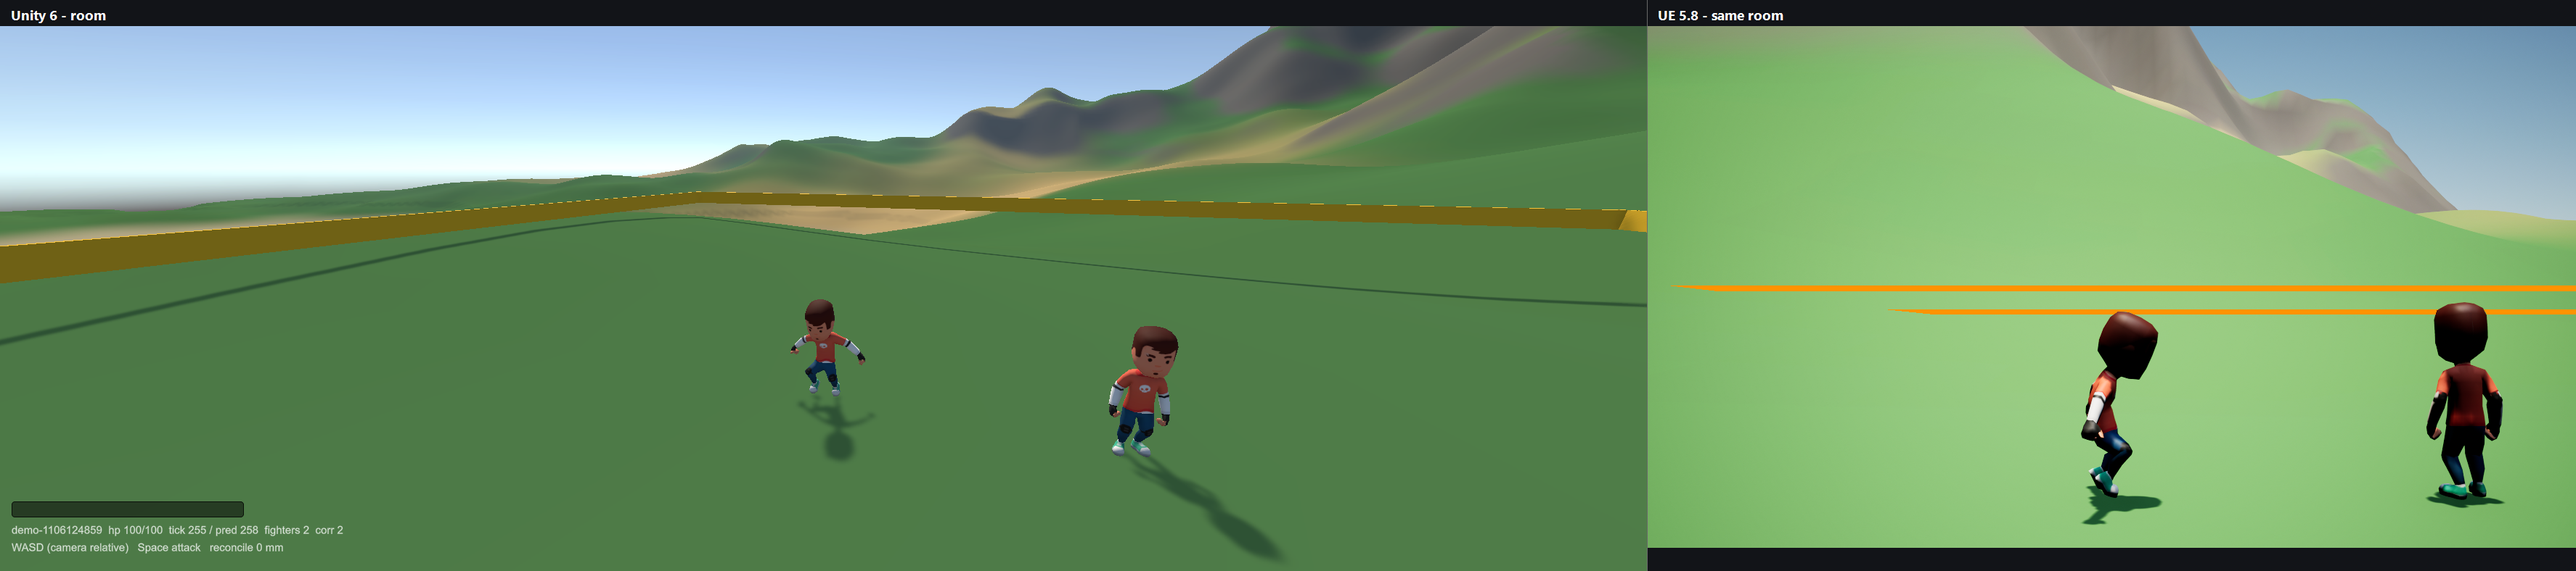
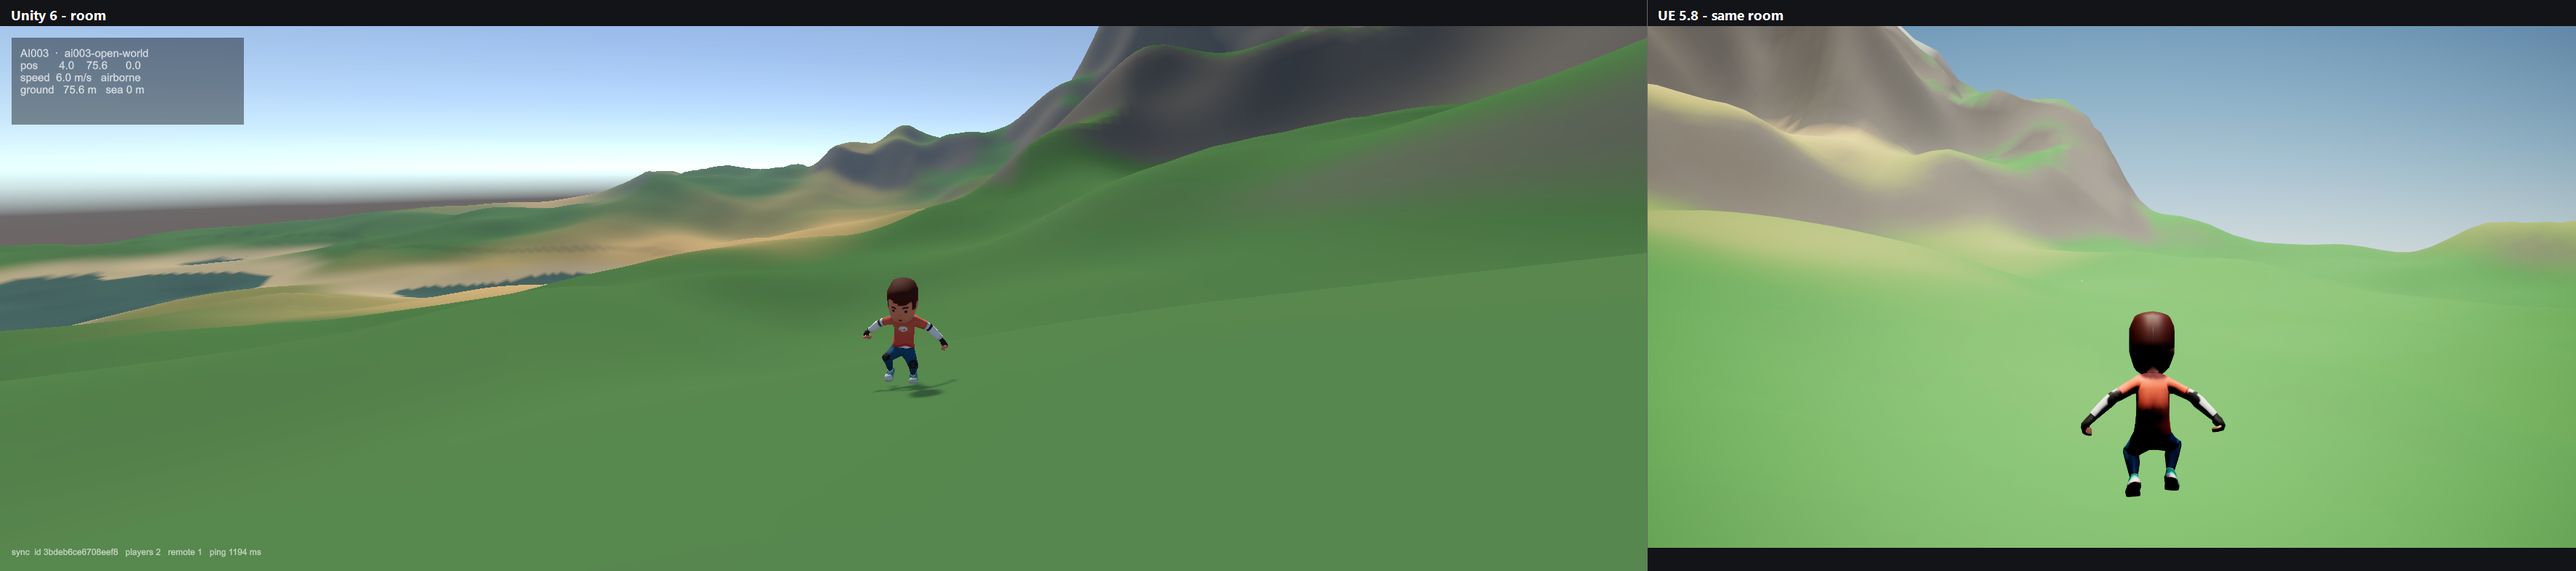
fix(rudp): acks must not consume stream sequence (gap stalled UE frames); frame+arena demo-room over UDP pass

diff --git a/clients/ue5/UE5GameClient/Source/UE5GameClient/Net/RudpTransport.cpp b/clients/ue5/UE5GameClient/Source/UE5GameClient/Net/RudpTransport.cpp
@@ -111,6 +111,25 @@ void FRudpTransport::SendPacket(uint8 Type, const TArray<uint8>& Payload)
 	P.SentAt = FPlatformTime::Seconds();
 }
 
+
+void FRudpTransport::SendAck()
+{
+	if (!Socket || !Remote.IsValid()) return;
+	// ACKs reuse the last data sequence number so they never create gaps in the
+	// reliable stream (matching the Go implementation).
+	TArray<uint8> Packet;
+	Packet.SetNumZeroed(HeaderSize);
+	WriteU32(Packet, 0, Magic);
+	Packet[4] = Version;
+	Packet[5] = 2;
+	WriteU32(Packet, 6, Session);
+	WriteU32(Packet, 10, SendSeq);
+	WriteU32(Packet, 14, LastAck);
+	WriteU32(Packet, 18, 0);
+	WriteU32(Packet, 24, Crc32(Packet.GetData(), 24));
+	int32 Sent = 0;
+	Socket->SendTo(Packet.GetData(), Packet.Num(), Sent, *Remote);
+}
 void FRudpTransport::Send(const FString& Json)
 {
 	if (!IsActive() || Json.IsEmpty()) return;
@@ -176,7 +195,20 @@ void FRudpTransport::HandlePacket(const TArray<uint8>& Packet, TArray<FString>& 
 	const uint32 Ack = ReadU32(Packet.GetData(), 14);
 	const int32 Len = Packet[22] | (Packet[23] << 8);
 	if (Ack != 0) Unacked.Remove(Ack);
-	if (Type == 2) return;
+	if (Type == 2)
+	{
+		if (Seq == RecvNext)
+		{
+			Accept(Packet, Len, OutMessages);
+			while (TArray<uint8>* Next = Reorder.Find(RecvNext))
+			{
+				TArray<uint8> Copy = *Next;
+				Reorder.Remove(RecvNext);
+				Accept(Copy, Copy.Num() - HeaderSize, OutMessages);
+			}
+		}
+		return;
+	}
 
 	LastAck = Seq;
 	if (Seq == RecvNext)
@@ -193,7 +225,7 @@ void FRudpTransport::HandlePacket(const TArray<uint8>& Packet, TArray<FString>& 
 	{
 		Reorder.Add(Seq, Packet);
 	}
-	SendPacket(2, TArray<uint8>());
+	SendAck();
 }
 
 void FRudpTransport::Accept(const TArray<uint8>& Packet, int32 Length, TArray<FString>& OutMessages)

diff --git a/server/internal/rudp/endpoint.go b/server/internal/rudp/endpoint.go
@@ -232,7 +232,18 @@ func (e *Endpoint) handleLocked(pkt []byte) [][]byte {
 	}
 
 	if typ == typeAck {
-		return nil
+		if seq == e.recvNext {
+			e.recvNext++
+			for {
+				next, ok := e.reorder[e.recvNext]
+				if !ok {
+					break
+				}
+				delete(e.reorder, e.recvNext)
+				e.acceptLocked(e.recvNext, next)
+			}
+		}
+		return e.takeDeliveredLocked()
 	}
 
 	payload := pkt[headerSize:]

diff --git a/clients/ue5/UE5GameClient/Source/UE5GameClient/Net/RudpTransport.h b/clients/ue5/UE5GameClient/Source/UE5GameClient/Net/RudpTransport.h
@@ -23,6 +23,7 @@ public:
 
 private:
 	void SendPacket(uint8 Type, const TArray<uint8>& Payload);
+	void SendAck();
 	void HandlePacket(const TArray<uint8>& Packet, TArray<FString>& OutMessages);
 	void Accept(const TArray<uint8>& Packet, int32 Length, TArray<FString>& OutMessages);
 	void Deliver(const TArray<uint8>& Data, int32 Offset, int32 Length, TArray<FString>& OutMessages);

diff --git a/server/internal/gateway/udp_frame_test.go b/server/internal/gateway/udp_frame_test.go
@@ -95,6 +95,7 @@ func TestFrameRoomUDPFramesContainBothPlayers(t *testing.T) {
 					if json.Unmarshal(msg.Body, &frame) != nil {
 						continue
 					}
+					t.Logf("frame bytes=%d players=%d", len(msg.Body), len(frame.Players))
 					if len(frame.Players) != 2 {
 						t.Fatalf("client %d frame players = %d, want 2", i, len(frame.Players))
 					}
